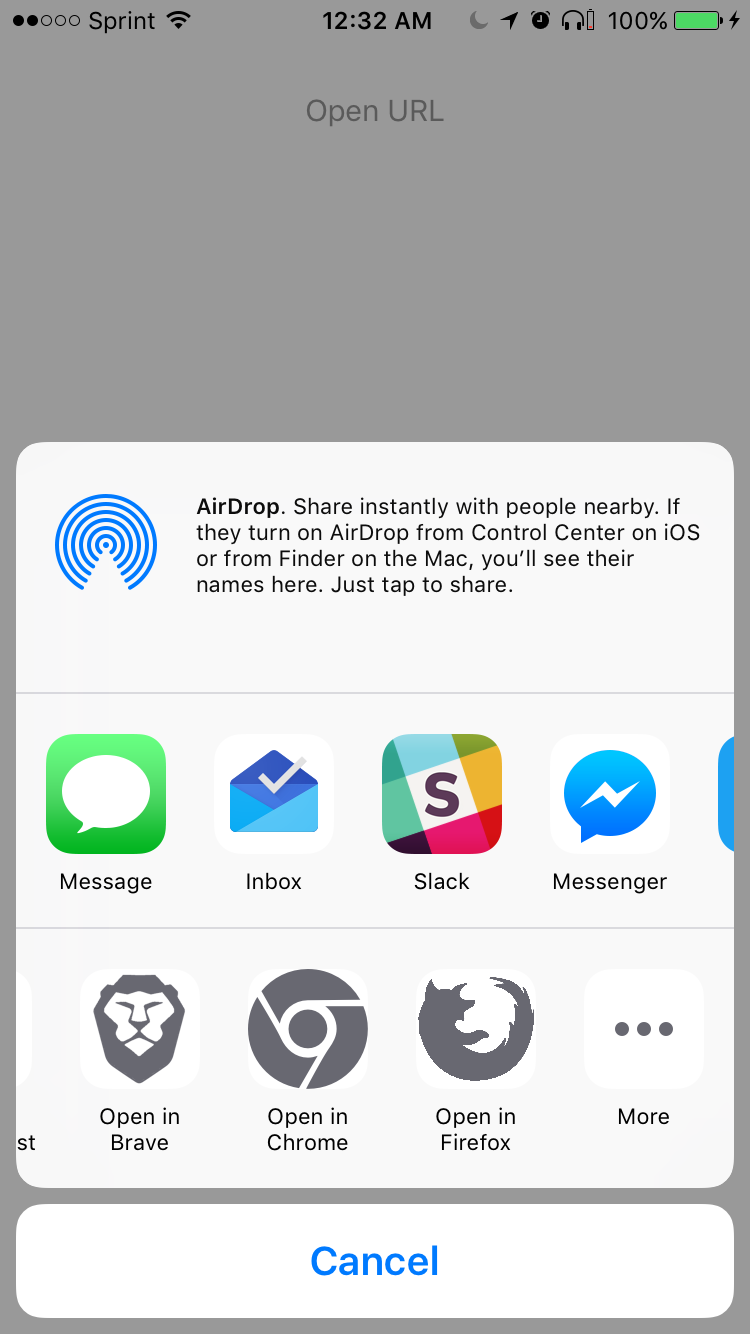
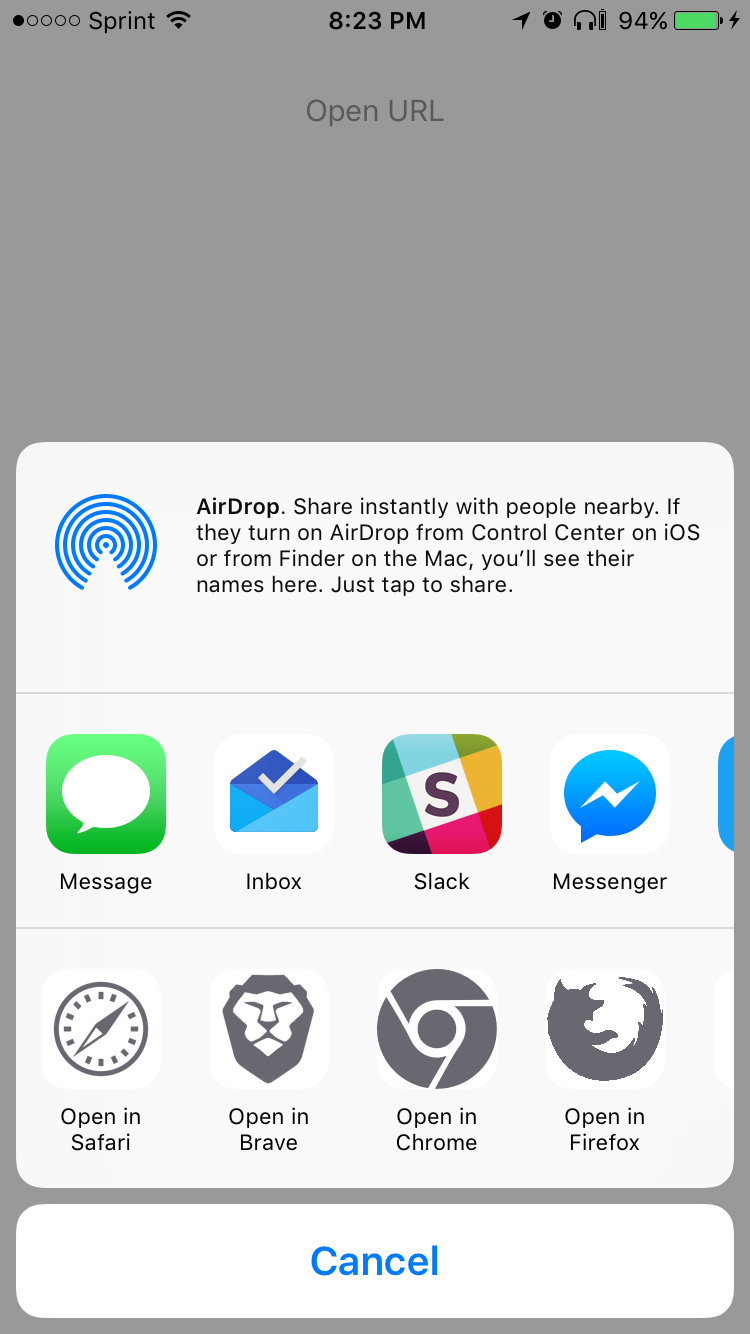
Updated README, Docs, and Screenshot

diff --git a/FreedomExample/ViewController.swift b/FreedomExample/ViewController.swift
@@ -18,10 +18,10 @@ class ViewController: UIViewController {
         // Enable Debug Logs (disabled by default)
         Freedom.debugEnabled = true
 
-        // Fetch activities for all third-party browsers supported by Freedom.
+        // Fetch activities for Safari and all third-party browsers supported by Freedom.
         let activities = Freedom.browsers()
 
-        // Alternatively, one could select a specific browser (or browsers)
+        // Alternatively, one could select a specific browser (or browsers).
 //        let activities = Freedom.browsers([.chrome])
 
         let vc = UIActivityViewController(activityItems: [url], applicationActivities: activities)

diff --git a/README.md b/README.md
@@ -9,10 +9,16 @@
 
 Freedom enables your application to open URLs in third-party browsers that your users have installed on their device.
 
-Freedom currently supports:
+### Currently Supported:
 - [Brave Browser](https://itunes.apple.com/us/app/brave-browser-fast-adblocker/id1052879175?mt=8)
 - [Firefox Web Browser](https://itunes.apple.com/us/app/firefox-web-browser/id989804926?mt=8)
 - [Google Chrome](https://itunes.apple.com/us/app/google-chrome-the-fast-and-secure-web-browser/id535886823?mt=8)
+- Safari
+
+### Future Plans
+- [Dolphin Web Browser](https://itunes.apple.com/gb/app/dolphin-web-browser-fast-internet/id452204407?mt=8)
+- [Firefox Focus](https://itunes.apple.com/us/app/firefox-focus-the-privacy-browser/id1055677337?mt=8)
+  - Awaiting [this issue](https://github.com/mozilla-mobile/focus-ios/issues/32) to be resolved.
 
 ## Screenshot
 
@@ -72,10 +78,10 @@ Add the following code to some actionable/tappable element in your project. In t
        // Enable Debug Logs (disabled by default)
        Freedom.debugEnabled = true
 
-       // Fetch activities for all third-party browsers supported by Freedom.
+       // Fetch activities for Safari and all third-party browsers supported by Freedom (see screenshot).
        let activities = Freedom.browsers()
 
-       // Alternatively, one could select a specific browser (or browsers)
+       // Alternatively, one could select a specific browser (or browsers).
        // let activities = Freedom.browsers([.chrome])
 
        let vc = UIActivityViewController(activityItems: [url], applicationActivities: activities)
